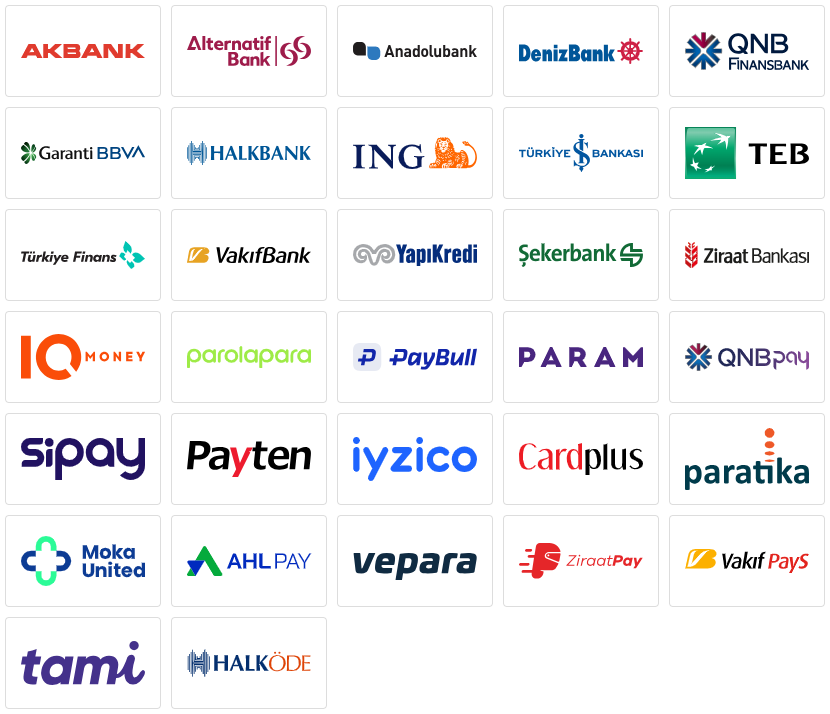
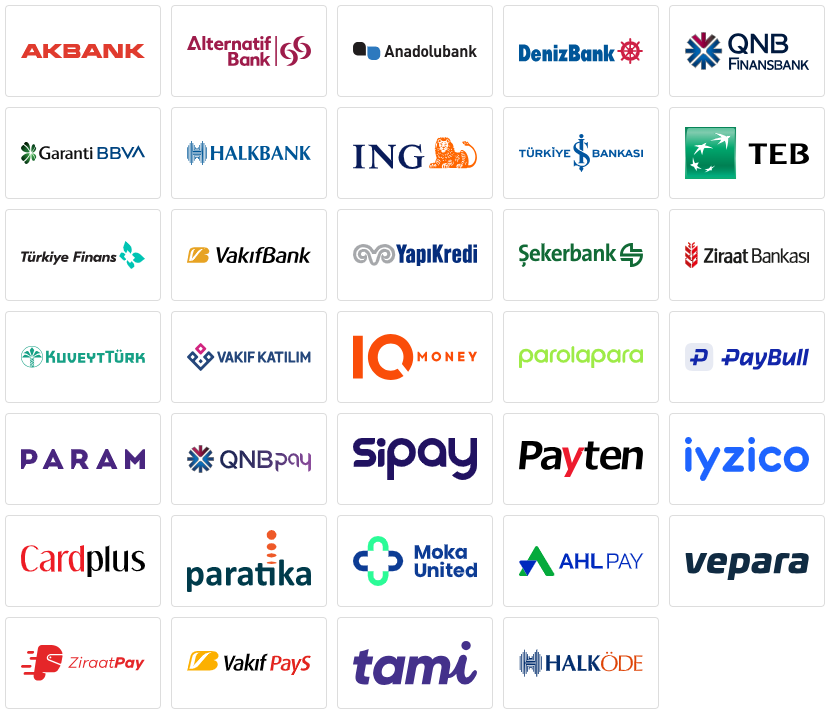
readme update

diff --git a/README.md b/README.md
@@ -16,6 +16,8 @@ CP.VPOS, Türkiye'deki birçok bankanın sanal pos entegrasyonlarını tek bir k
 + **.NET Uyumluluğu:** Kütüphane, .NET Framework, .NET Core ve .NET MAUI da dahil olmak üzere tüm .NET sürümleriyle tam uyumludur. Bu sayede farklı projelerde kolayca entegre edilerek kullanılabilir.
 
 ## Sürüm Notları
+### v3.2.0
+ - Kuveyt Türk ile Vakıf Katılım bankaları Non3D ve 3D ödeme sanal pos entegrasyonları eklendi.
 ### v3.1.1
  - Nestpay bankalarındaki v3.0.0 da oluşan taksitli çekim problemi düzeltildi.
 ### v3.1.0
@@ -92,6 +94,8 @@ Dotnet CLI
 | VakıfPayS | ✔ | ✔ | ✔ | ✔ |
 | Tami | ✔ | ✔ | ✔ | ✔ |
 | HalkÖde | ✔ | ✔ | ✔ | ✔ |
+| Kuveyt Türk | ✔ | ✔ | ❌ | ❌ |
+| Vakıf Katılım | ✔ | ✔ | ❌ | ❌ |
 
 
 
@@ -151,7 +155,8 @@ Sanal POS bazlı alan açıklamaları:
 | VakıfPayS | CP.VPOS.Services.BankService.VakifPayS | Firma Kodu | Api Kullanıcısı Adı | Api Kullanıcısı Şifre | |
 | Tami | CP.VPOS.Services.BankService.Tami | Üye İşyeri No | Terminal No | `KidValue` + "\|" + `KValue` | Secret Key |
 | HalkÖde | CP.VPOS.Services.BankService.HalkOde | Üye İşyeri ID | Uygulama Anahtarı | Uygulama Parolası | Üye İşyeri Anahtarı |
-
+| Kuveyt Türk | CP.VPOS.Services.BankService.KuveytTurk | MerchantId | UserName | Password | CustomerId |
+| Vakıf Katılım | CP.VPOS.Services.BankService.VakifKatilim | MerchantId | UserName | Password | CustomerId |
 
 
 ## 3D'siz Direkt Satış İşlemi
